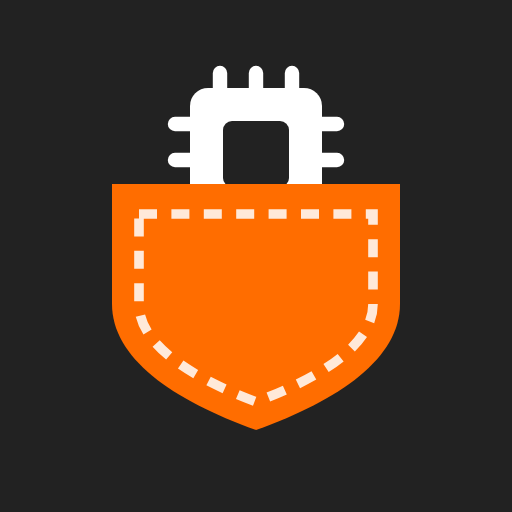
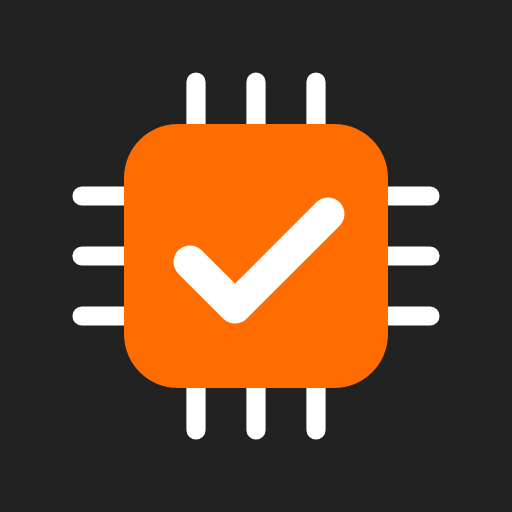
שם חדש: PC-LI, המחשב שמתאים לי. לוגו חדש (שבב עם וי) ואייקונים
Claude-Session: https://claude.ai/code/session_01FdpYwHwnTvmcWHvR7ke12a

diff --git a/index.html b/index.html
@@ -3,15 +3,15 @@
 <head>
 <meta charset="utf-8">
 <meta name="viewport" content="width=device-width, initial-scale=1, viewport-fit=cover">
-<title>KisPC: מחשב לכל כיס</title>
-<meta name="description" content="KisPC: בונים מחשב בקלות, משווים מחירים בין חנויות בישראל, ומבינים כל חלק בעברית פשוטה. חינם, בלי פרסומות ובלי עמלות.">
+<title>PC-LI: המחשב שמתאים לי</title>
+<meta name="description" content="PC-LI: בונים מחשב בקלות, משווים מחירים בין חנויות בישראל, ומבינים כל חלק בעברית פשוטה. חינם, בלי פרסומות ובלי עמלות.">
 <meta name="theme-color" content="#FF6D00">
 <link rel="manifest" href="manifest.webmanifest">
 <link rel="icon" href="icons/icon.svg" type="image/svg+xml">
 <link rel="apple-touch-icon" href="icons/icon-180.png">
 <meta name="apple-mobile-web-app-capable" content="yes">
-<meta name="apple-mobile-web-app-title" content="KisPC">
-<meta property="og:title" content="KisPC: מחשב לכל כיס">
+<meta name="apple-mobile-web-app-title" content="PC-LI">
+<meta property="og:title" content="PC-LI: המחשב שמתאים לי">
 <meta property="og:description" content="בונים מחשב, משווים מחירים בין חנויות, ומבינים כל חלק בעברית פשוטה. חינם, בלי פרסומות.">
 <meta property="og:image" content="icons/icon-512.png">
 <link rel="stylesheet" href="https://fonts.googleapis.com/css2?family=Assistant:wght@400;600;700;800&family=Amatic+SC:wght@700&display=swap">
@@ -226,8 +226,8 @@ textarea{resize:vertical;min-height:130px}
 <header class="top">
   <div class="wrap">
     <div style="display:flex;flex-direction:column">
-      <button type="button" class="brand" dir="ltr" data-tab="build" aria-label="KisPC, חזרה לבניית מחשב"><svg class="mark" viewBox="0 0 64 64" aria-hidden="true"><g fill="currentColor"><rect x="21" y="3" width="22" height="22" rx="3"/><path d="M26 0.5v2.5M32 0.5v2.5M38 0.5v2.5M18.5 9h2.5M18.5 15h2.5M43 9h2.5M43 15h2.5" stroke="currentColor" stroke-width="2.4" stroke-linecap="round"/></g><rect x="26.5" y="8.5" width="11" height="11" rx="1.5" fill="var(--paper)"/><path d="M8 19h48v20c0 9-10 16-24 21C18 55 8 48 8 39z" fill="var(--brand)"/><path d="M12.5 24h39v15c0 6.5-8 12-19.5 16.3C20.5 51 12.5 45.5 12.5 39z" fill="none" stroke="#fff" stroke-width="1.6" stroke-dasharray="3 2.4" opacity=".85"/></svg><span>Kis<b>PC</b></span></button>
-      <div class="tagline">מחשב לכל כיס</div>
+      <button type="button" class="brand" dir="ltr" data-tab="build" aria-label="PC-LI, חזרה לבניית מחשב"><svg class="mark" viewBox="0 0 64 64" aria-hidden="true"><path d="M22 3v7M32 3v7M42 3v7M22 54v7M32 54v7M42 54v7M3 22h7M3 32h7M3 42h7M54 22h7M54 32h7M54 42h7" stroke="currentColor" stroke-width="3.2" stroke-linecap="round"/><rect x="10" y="10" width="44" height="44" rx="9" fill="var(--brand)"/><path d="M21 33l7.5 7.5L44 25" fill="none" stroke="#fff" stroke-width="5.5" stroke-linecap="round" stroke-linejoin="round"/></svg><span>PC<b>-LI</b></span></button>
+      <div class="tagline">המחשב שמתאים לי</div>
     </div>
     <div class="row" style="flex-wrap:nowrap;gap:6px">
     <button type="button" class="theme-btn" id="open-glossary">מילון</button>
@@ -396,10 +396,10 @@ textarea{resize:vertical;min-height:130px}
   <section id="v-about" aria-labelledby="h-about" hidden>
     <button type="button" class="linkbtn back" data-tab="build">חזרה לבניית מחשב</button>
     <h1 id="h-about">מי אנחנו, ומה חשוב לדעת</h1>
-    <p class="lead">KisPC הוא אתר חינמי שעוזר לבנות מחשב בלי שיעבדו עליכם. אין לנו מה למכור לכם.</p>
+    <p class="lead">PC-LI הוא אתר חינמי שעוזר לבנות מחשב בלי שיעבדו עליכם. אין לנו מה למכור לכם.</p>
     <div class="about">
-      <h2>מי עומד מאחורי KisPC</h2>
-      <p>KisPC הוקם על ידי מור משה, כפרויקט אישי וחינמי. אין ל-KisPC קשר עסקי לאף חנות. אף חנות לא משלמת לנו, ואנחנו לא מקבלים עמלה על קנייה. סדר המחירים נקבע רק לפי המחיר.</p>
+      <h2>מי עומד מאחורי PC-LI</h2>
+      <p>PC-LI הוקם על ידי מור משה, כפרויקט אישי וחינמי. אין ל-PC-LI קשר עסקי לאף חנות. אף חנות לא משלמת לנו, ואנחנו לא מקבלים עמלה על קנייה. סדר המחירים נקבע רק לפי המחיר.</p>
       <h2>מאיפה המחירים</h2>
       <p>כמה פעמים ביום אנחנו בודקים את דף המוצר של כל חלק באתר החנות, ושומרים את המחיר שמופיע שם. ליד כל מחיר כתוב מתי הוא נבדק. כרגע יש מחירים מ-TMS, STO מחשבים, King Games, מחסני חשמל ופלונטר (פלונטר שולחים לנו קובץ מחירים רשמי). חנויות שלא מאפשרות לקרוא את האתר שלהן לא מופיעות, עד שיתנו אישור.</p>
       <p><b>המחיר הקובע הוא תמיד המחיר באתר החנות.</b> מחירים משתנים במהלך היום, ויכולות להיות טעויות. לפני שקונים, בדקו בדף המוצר את המחיר, את המלאי ואת האחריות.</p>
@@ -410,7 +410,7 @@ textarea{resize:vertical;min-height:130px}
       <h2>פרטיות</h2>
       <p>אין הרשמה ואין חשבונות. מה שבוחרים באתר נשמר רק בדפדפן שלכם. קישור שיתוף מכיל את המחשב שבחרתם, ולא שום פרט אישי. אנחנו לא משתמשים בעוגיות מעקב ולא אוספים נתוני גלישה. האתר מאוחסן ב-GitHub Pages והגופנים נטענים מ-Google Fonts, ולכן השירותים האלה עשויים לראות את כתובת ה-IP שלכם, כמו בכל אתר.</p>
       <h2>נגישות</h2>
-      <p>אנחנו רוצים שכל אחד יוכל להשתמש ב-KisPC. מה שעשינו: אפשר להשתמש בכל האתר עם מקלדת בלבד, הכפתורים מסומנים לקוראי מסך, יש מצב כהה וניגודיות גבוהה, והטקסט מתאים להגדלה בדפדפן. עוד לא עשינו בדיקת נגישות מלאה על ידי מומחה. נתקלתם בבעיה? כתבו לנו ונתקן.</p>
+      <p>אנחנו רוצים שכל אחד יוכל להשתמש ב-PC-LI. מה שעשינו: אפשר להשתמש בכל האתר עם מקלדת בלבד, הכפתורים מסומנים לקוראי מסך, יש מצב כהה וניגודיות גבוהה, והטקסט מתאים להגדלה בדפדפן. עוד לא עשינו בדיקת נגישות מלאה על ידי מומחה. נתקלתם בבעיה? כתבו לנו ונתקן.</p>
       <h2>יצירת קשר</h2>
       <p>טעות במחיר, חנות שרוצה להצטרף, בעיית נגישות או סתם רעיון: <a href="mailto:kispcoffice@gmail.com">kispcoffice@gmail.com</a></p>
     </div>
@@ -438,11 +438,11 @@ textarea{resize:vertical;min-height:130px}
 
   <section id="v-admin" aria-labelledby="h-admin" hidden>
     <h1 id="h-admin">מחירים</h1>
-    <p class="lead">רק אתה רואה את הלשונית הזו. מה שתשמור כאן יופיע לכל מי שפותח את KisPC, עם תאריך העדכון.</p>
+    <p class="lead">רק אתה רואה את הלשונית הזו. מה שתשמור כאן יופיע לכל מי שפותח את PC-LI, עם תאריך העדכון.</p>
     <div id="admin-list"></div>
   </section>
 
-  <p class="trust">KisPC חינמי לגמרי. בלי פרסומות, בלי עמלות מחנויות. ליד כל מחיר כתוב מתי הוא נבדק. המחיר הקובע הוא המחיר בחנות. <button type="button" class="linkbtn" id="open-about" style="min-height:0;padding:0">מי אנחנו, פרטיות ונגישות</button></p>
+  <p class="trust">PC-LI חינמי לגמרי. בלי פרסומות, בלי עמלות מחנויות. ליד כל מחיר כתוב מתי הוא נבדק. המחיר הקובע הוא המחיר בחנות. <button type="button" class="linkbtn" id="open-about" style="min-height:0;padding:0">מי אנחנו, פרטיות ונגישות</button></p>
 </main>
 
 <nav class="tabs" aria-label="ניווט">
@@ -1081,7 +1081,7 @@ function renderType(){
 function renderBuild(){ renderType(); renderUse(); renderParts(); renderChecks(); renderTotal(); renderAssembly(); document.getElementById("eilat").checked=S.eilat; document.getElementById("abroad").checked=S.abroad; }
 
 function buildText(){
-  var lines = ["המחשב שבניתי ב-KisPC:"];
+  var lines = ["המחשב שבניתי ב-PC-LI:"];
   activeKinds().forEach(function(kd){ var p=part(kd.k), c=chosen(kd.k); lines.push(kd.name+": "+(c? c.model+" ("+money(c.price)+" "+inStore(c.store.name)+")" : p.name)); });
   var t=document.getElementById("total").textContent; if(t!=="—") lines.push("סה\"כ: "+t+(S.eilat?" (מחירי אילת)":""));
   var a = ASSEMBLY.filter(function(x){return x.id===S.asm;})[0]; if(a) lines.push("הרכבה: "+a.name);
@@ -1124,7 +1124,7 @@ document.getElementById("share").addEventListener("click", async function(){
   var msg=document.getElementById("copy-msg");
   if(!db){
     var hl = location.origin + location.pathname + shareHash();
-    if(navigator.share){ try{ await navigator.share({title:"המחשב שלי ב-KisPC", text:"תראו את המחשב שבניתי:", url:hl}); msg.textContent=""; return; }catch(err){ if(err && err.name==="AbortError") return; } }
+    if(navigator.share){ try{ await navigator.share({title:"המחשב שלי ב-PC-LI", text:"תראו את המחשב שבניתי:", url:hl}); msg.textContent=""; return; }catch(err){ if(err && err.name==="AbortError") return; } }
     copyText(hl, msg, "הקישור הועתק. אפשר להדביק בוואטסאפ.");
     return;
   }
@@ -1134,7 +1134,7 @@ document.getElementById("share").addEventListener("click", async function(){
     var ref = db.doc("shared/"+sid);
     await ref.set({color:S.color, build:S.build, picks:S.picks, mode:S.mode, use:S.use, level:S.level, eilat:S.eilat, periph:S.periph, asm:S.asm, createdAt:new Date().toISOString()});
     var link = ART_URL+"#b"+sid;
-    copyText(link, msg, "הקישור הועתק: "+link+" (מי שמקבל צריך גישה ל-KisPC)");
+    copyText(link, msg, "הקישור הועתק: "+link+" (מי שמקבל צריך גישה ל-PC-LI)");
   }catch(err){ msg.textContent="לא הצלחתי ליצור קישור. אפשר להעתיק כטקסט."; }
 });
 document.getElementById("alert-save").addEventListener("click", async function(){
@@ -1187,7 +1187,7 @@ function catalogBrief(){
   return Object.keys(CAT).map(function(k){ return k+": "+CAT[k].map(function(p){ var o=isFree(k,p.id)?[]:offers(k,p.id); return p.name+(o.length?" (הזול: "+o[0].model+" "+money(o[0].price)+" "+inStore(o[0].store.name)+")":""); }).join("; "); }).join("\n");
 }
 function buildBrief(){ return activeKinds().map(function(kd){ var c=chosen(kd.k); return kd.name+": "+(c? c.model+" "+money(c.price) : part(kd.k).name); }).join("\n"); }
-var RULES = "אתה היועץ של KisPC, אתר חינמי בעברית שעוזר לאנשים בלי ידע טכני לקנות מחשב בלי שיעבדו עליהם. כתוב בעברית פשוטה, קצר, בלי מונחים מיותרים, כמו חבר שמבין במחשבים. כשאתה משתמש במונח טכני, הסבר אותו במילים פשוטות. אל תמציא מחירים: השתמש רק במחירים שמופיעים במידע למטה, ואם אין מחיר, אמור שאין לך מחיר עדכני. אל תשתמש בכוכביות, בכותרות או בעיצוב Markdown; טקסט רגיל בלבד, שורה לכל נקודה.";
+var RULES = "אתה היועץ של PC-LI, אתר חינמי בעברית שעוזר לאנשים בלי ידע טכני לקנות מחשב בלי שיעבדו עליהם. כתוב בעברית פשוטה, קצר, בלי מונחים מיותרים, כמו חבר שמבין במחשבים. כשאתה משתמש במונח טכני, הסבר אותו במילים פשוטות. אל תמציא מחירים: השתמש רק במחירים שמופיעים במידע למטה, ואם אין מחיר, אמור שאין לך מחיר עדכני. אל תשתמש בכוכביות, בכותרות או בעיצוב Markdown; טקסט רגיל בלבד, שורה לכל נקודה.";
 function hideAI(){ ["check-off","ask-off"].forEach(function(id){ document.getElementById(id).hidden=false; }); document.getElementById("ask-form").hidden=true; document.getElementById("img-row").hidden=true; document.getElementById("img-tip").hidden=true; }
 var offerImg = null;
 function onOfferImage(e){

diff --git a/src/app.html b/src/app.html
@@ -1,4 +1,4 @@
-<title>KisPC</title>
+<title>PC-LI</title>
 <meta name="claude:viewport-fit-sides" content="cover">
 <link rel="stylesheet" href="https://fonts.googleapis.com/css2?family=Assistant:wght@400;600;700;800&family=Amatic+SC:wght@700&display=swap">
 <style>
@@ -209,8 +209,8 @@ textarea{resize:vertical;min-height:130px}
 <header class="top">
   <div class="wrap">
     <div style="display:flex;flex-direction:column">
-      <button type="button" class="brand" dir="ltr" data-tab="build" aria-label="KisPC, חזרה לבניית מחשב"><svg class="mark" viewBox="0 0 64 64" aria-hidden="true"><g fill="currentColor"><rect x="21" y="3" width="22" height="22" rx="3"/><path d="M26 0.5v2.5M32 0.5v2.5M38 0.5v2.5M18.5 9h2.5M18.5 15h2.5M43 9h2.5M43 15h2.5" stroke="currentColor" stroke-width="2.4" stroke-linecap="round"/></g><rect x="26.5" y="8.5" width="11" height="11" rx="1.5" fill="var(--paper)"/><path d="M8 19h48v20c0 9-10 16-24 21C18 55 8 48 8 39z" fill="var(--brand)"/><path d="M12.5 24h39v15c0 6.5-8 12-19.5 16.3C20.5 51 12.5 45.5 12.5 39z" fill="none" stroke="#fff" stroke-width="1.6" stroke-dasharray="3 2.4" opacity=".85"/></svg><span>Kis<b>PC</b></span></button>
-      <div class="tagline">מחשב לכל כיס</div>
+      <button type="button" class="brand" dir="ltr" data-tab="build" aria-label="PC-LI, חזרה לבניית מחשב"><svg class="mark" viewBox="0 0 64 64" aria-hidden="true"><path d="M22 3v7M32 3v7M42 3v7M22 54v7M32 54v7M42 54v7M3 22h7M3 32h7M3 42h7M54 22h7M54 32h7M54 42h7" stroke="currentColor" stroke-width="3.2" stroke-linecap="round"/><rect x="10" y="10" width="44" height="44" rx="9" fill="var(--brand)"/><path d="M21 33l7.5 7.5L44 25" fill="none" stroke="#fff" stroke-width="5.5" stroke-linecap="round" stroke-linejoin="round"/></svg><span>PC<b>-LI</b></span></button>
+      <div class="tagline">המחשב שמתאים לי</div>
     </div>
     <div class="row" style="flex-wrap:nowrap;gap:6px">
     <button type="button" class="theme-btn" id="open-glossary">מילון</button>
@@ -379,10 +379,10 @@ textarea{resize:vertical;min-height:130px}
   <section id="v-about" aria-labelledby="h-about" hidden>
     <button type="button" class="linkbtn back" data-tab="build">חזרה לבניית מחשב</button>
     <h1 id="h-about">מי אנחנו, ומה חשוב לדעת</h1>
-    <p class="lead">KisPC הוא אתר חינמי שעוזר לבנות מחשב בלי שיעבדו עליכם. אין לנו מה למכור לכם.</p>
+    <p class="lead">PC-LI הוא אתר חינמי שעוזר לבנות מחשב בלי שיעבדו עליכם. אין לנו מה למכור לכם.</p>
     <div class="about">
-      <h2>מי עומד מאחורי KisPC</h2>
-      <p>KisPC הוקם על ידי מור משה, כפרויקט אישי וחינמי. אין ל-KisPC קשר עסקי לאף חנות. אף חנות לא משלמת לנו, ואנחנו לא מקבלים עמלה על קנייה. סדר המחירים נקבע רק לפי המחיר.</p>
+      <h2>מי עומד מאחורי PC-LI</h2>
+      <p>PC-LI הוקם על ידי מור משה, כפרויקט אישי וחינמי. אין ל-PC-LI קשר עסקי לאף חנות. אף חנות לא משלמת לנו, ואנחנו לא מקבלים עמלה על קנייה. סדר המחירים נקבע רק לפי המחיר.</p>
       <h2>מאיפה המחירים</h2>
       <p>כמה פעמים ביום אנחנו בודקים את דף המוצר של כל חלק באתר החנות, ושומרים את המחיר שמופיע שם. ליד כל מחיר כתוב מתי הוא נבדק. כרגע יש מחירים מ-TMS, STO מחשבים, King Games, מחסני חשמל ופלונטר (פלונטר שולחים לנו קובץ מחירים רשמי). חנויות שלא מאפשרות לקרוא את האתר שלהן לא מופיעות, עד שיתנו אישור.</p>
       <p><b>המחיר הקובע הוא תמיד המחיר באתר החנות.</b> מחירים משתנים במהלך היום, ויכולות להיות טעויות. לפני שקונים, בדקו בדף המוצר את המחיר, את המלאי ואת האחריות.</p>
@@ -393,7 +393,7 @@ textarea{resize:vertical;min-height:130px}
       <h2>פרטיות</h2>
       <p>אין הרשמה ואין חשבונות. מה שבוחרים באתר נשמר רק בדפדפן שלכם. קישור שיתוף מכיל את המחשב שבחרתם, ולא שום פרט אישי. אנחנו לא משתמשים בעוגיות מעקב ולא אוספים נתוני גלישה. האתר מאוחסן ב-GitHub Pages והגופנים נטענים מ-Google Fonts, ולכן השירותים האלה עשויים לראות את כתובת ה-IP שלכם, כמו בכל אתר.</p>
       <h2>נגישות</h2>
-      <p>אנחנו רוצים שכל אחד יוכל להשתמש ב-KisPC. מה שעשינו: אפשר להשתמש בכל האתר עם מקלדת בלבד, הכפתורים מסומנים לקוראי מסך, יש מצב כהה וניגודיות גבוהה, והטקסט מתאים להגדלה בדפדפן. עוד לא עשינו בדיקת נגישות מלאה על ידי מומחה. נתקלתם בבעיה? כתבו לנו ונתקן.</p>
+      <p>אנחנו רוצים שכל אחד יוכל להשתמש ב-PC-LI. מה שעשינו: אפשר להשתמש בכל האתר עם מקלדת בלבד, הכפתורים מסומנים לקוראי מסך, יש מצב כהה וניגודיות גבוהה, והטקסט מתאים להגדלה בדפדפן. עוד לא עשינו בדיקת נגישות מלאה על ידי מומחה. נתקלתם בבעיה? כתבו לנו ונתקן.</p>
       <h2>יצירת קשר</h2>
       <p>טעות במחיר, חנות שרוצה להצטרף, בעיית נגישות או סתם רעיון: <a href="mailto:kispcoffice@gmail.com">kispcoffice@gmail.com</a></p>
     </div>
@@ -421,11 +421,11 @@ textarea{resize:vertical;min-height:130px}
 
   <section id="v-admin" aria-labelledby="h-admin" hidden>
     <h1 id="h-admin">מחירים</h1>
-    <p class="lead">רק אתה רואה את הלשונית הזו. מה שתשמור כאן יופיע לכל מי שפותח את KisPC, עם תאריך העדכון.</p>
+    <p class="lead">רק אתה רואה את הלשונית הזו. מה שתשמור כאן יופיע לכל מי שפותח את PC-LI, עם תאריך העדכון.</p>
     <div id="admin-list"></div>
   </section>
 
-  <p class="trust">KisPC חינמי לגמרי. בלי פרסומות, בלי עמלות מחנויות. ליד כל מחיר כתוב מתי הוא נבדק. המחיר הקובע הוא המחיר בחנות. <button type="button" class="linkbtn" id="open-about" style="min-height:0;padding:0">מי אנחנו, פרטיות ונגישות</button></p>
+  <p class="trust">PC-LI חינמי לגמרי. בלי פרסומות, בלי עמלות מחנויות. ליד כל מחיר כתוב מתי הוא נבדק. המחיר הקובע הוא המחיר בחנות. <button type="button" class="linkbtn" id="open-about" style="min-height:0;padding:0">מי אנחנו, פרטיות ונגישות</button></p>
 </main>
 
 <nav class="tabs" aria-label="ניווט">
@@ -1064,7 +1064,7 @@ function renderType(){
 function renderBuild(){ renderType(); renderUse(); renderParts(); renderChecks(); renderTotal(); renderAssembly(); document.getElementById("eilat").checked=S.eilat; document.getElementById("abroad").checked=S.abroad; }
 
 function buildText(){
-  var lines = ["המחשב שבניתי ב-KisPC:"];
+  var lines = ["המחשב שבניתי ב-PC-LI:"];
   activeKinds().forEach(function(kd){ var p=part(kd.k), c=chosen(kd.k); lines.push(kd.name+": "+(c? c.model+" ("+money(c.price)+" "+inStore(c.store.name)+")" : p.name)); });
   var t=document.getElementById("total").textContent; if(t!=="—") lines.push("סה\"כ: "+t+(S.eilat?" (מחירי אילת)":""));
   var a = ASSEMBLY.filter(function(x){return x.id===S.asm;})[0]; if(a) lines.push("הרכבה: "+a.name);
@@ -1107,7 +1107,7 @@ document.getElementById("share").addEventListener("click", async function(){
   var msg=document.getElementById("copy-msg");
   if(!db){
     var hl = location.origin + location.pathname + shareHash();
-    if(navigator.share){ try{ await navigator.share({title:"המחשב שלי ב-KisPC", text:"תראו את המחשב שבניתי:", url:hl}); msg.textContent=""; return; }catch(err){ if(err && err.name==="AbortError") return; } }
+    if(navigator.share){ try{ await navigator.share({title:"המחשב שלי ב-PC-LI", text:"תראו את המחשב שבניתי:", url:hl}); msg.textContent=""; return; }catch(err){ if(err && err.name==="AbortError") return; } }
     copyText(hl, msg, "הקישור הועתק. אפשר להדביק בוואטסאפ.");
     return;
   }
@@ -1117,7 +1117,7 @@ document.getElementById("share").addEventListener("click", async function(){
     var ref = db.doc("shared/"+sid);
     await ref.set({color:S.color, build:S.build, picks:S.picks, mode:S.mode, use:S.use, level:S.level, eilat:S.eilat, periph:S.periph, asm:S.asm, createdAt:new Date().toISOString()});
     var link = ART_URL+"#b"+sid;
-    copyText(link, msg, "הקישור הועתק: "+link+" (מי שמקבל צריך גישה ל-KisPC)");
+    copyText(link, msg, "הקישור הועתק: "+link+" (מי שמקבל צריך גישה ל-PC-LI)");
   }catch(err){ msg.textContent="לא הצלחתי ליצור קישור. אפשר להעתיק כטקסט."; }
 });
 document.getElementById("alert-save").addEventListener("click", async function(){
@@ -1170,7 +1170,7 @@ function catalogBrief(){
   return Object.keys(CAT).map(function(k){ return k+": "+CAT[k].map(function(p){ var o=isFree(k,p.id)?[]:offers(k,p.id); return p.name+(o.length?" (הזול: "+o[0].model+" "+money(o[0].price)+" "+inStore(o[0].store.name)+")":""); }).join("; "); }).join("\n");
 }
 function buildBrief(){ return activeKinds().map(function(kd){ var c=chosen(kd.k); return kd.name+": "+(c? c.model+" "+money(c.price) : part(kd.k).name); }).join("\n"); }
-var RULES = "אתה היועץ של KisPC, אתר חינמי בעברית שעוזר לאנשים בלי ידע טכני לקנות מחשב בלי שיעבדו עליהם. כתוב בעברית פשוטה, קצר, בלי מונחים מיותרים, כמו חבר שמבין במחשבים. כשאתה משתמש במונח טכני, הסבר אותו במילים פשוטות. אל תמציא מחירים: השתמש רק במחירים שמופיעים במידע למטה, ואם אין מחיר, אמור שאין לך מחיר עדכני. אל תשתמש בכוכביות, בכותרות או בעיצוב Markdown; טקסט רגיל בלבד, שורה לכל נקודה.";
+var RULES = "אתה היועץ של PC-LI, אתר חינמי בעברית שעוזר לאנשים בלי ידע טכני לקנות מחשב בלי שיעבדו עליהם. כתוב בעברית פשוטה, קצר, בלי מונחים מיותרים, כמו חבר שמבין במחשבים. כשאתה משתמש במונח טכני, הסבר אותו במילים פשוטות. אל תמציא מחירים: השתמש רק במחירים שמופיעים במידע למטה, ואם אין מחיר, אמור שאין לך מחיר עדכני. אל תשתמש בכוכביות, בכותרות או בעיצוב Markdown; טקסט רגיל בלבד, שורה לכל נקודה.";
 function hideAI(){ ["check-off","ask-off"].forEach(function(id){ document.getElementById(id).hidden=false; }); document.getElementById("ask-form").hidden=true; document.getElementById("img-row").hidden=true; document.getElementById("img-tip").hidden=true; }
 var offerImg = null;
 function onOfferImage(e){

diff --git a/tools/build.py b/tools/build.py
@@ -4,22 +4,22 @@ root=os.path.dirname(os.path.dirname(os.path.abspath(__file__)))
 os.chdir(root)
 src=open('src/app.html',encoding='utf-8').read()
 src=src.replace('<meta name="claude:viewport-fit-sides" content="cover">\n','')
-title_line='<title>KisPC</title>\n'
+title_line='<title>PC-LI</title>\n'
 assert src.startswith(title_line); body=src[len(title_line):]
 head='''<!doctype html>
 <html lang="he" dir="rtl">
 <head>
 <meta charset="utf-8">
 <meta name="viewport" content="width=device-width, initial-scale=1, viewport-fit=cover">
-<title>KisPC: מחשב לכל כיס</title>
-<meta name="description" content="KisPC: בונים מחשב בקלות, משווים מחירים בין חנויות בישראל, ומבינים כל חלק בעברית פשוטה. חינם, בלי פרסומות ובלי עמלות.">
+<title>PC-LI: המחשב שמתאים לי</title>
+<meta name="description" content="PC-LI: בונים מחשב בקלות, משווים מחירים בין חנויות בישראל, ומבינים כל חלק בעברית פשוטה. חינם, בלי פרסומות ובלי עמלות.">
 <meta name="theme-color" content="#FF6D00">
 <link rel="manifest" href="manifest.webmanifest">
 <link rel="icon" href="icons/icon.svg" type="image/svg+xml">
 <link rel="apple-touch-icon" href="icons/icon-180.png">
 <meta name="apple-mobile-web-app-capable" content="yes">
-<meta name="apple-mobile-web-app-title" content="KisPC">
-<meta property="og:title" content="KisPC: מחשב לכל כיס">
+<meta name="apple-mobile-web-app-title" content="PC-LI">
+<meta property="og:title" content="PC-LI: המחשב שמתאים לי">
 <meta property="og:description" content="בונים מחשב, משווים מחירים בין חנויות, ומבינים כל חלק בעברית פשוטה. חינם, בלי פרסומות.">
 <meta property="og:image" content="icons/icon-512.png">
 '''

diff --git a/README.md b/README.md
@@ -1,6 +1,6 @@
-# KisPC
+# PC-LI
 
-מחשב לכל כיס. אפליקציה חינמית לגמרי: בלי פרסומות, בלי עמלות מחנויות.
+המחשב שמתאים לי. אפליקציה חינמית לגמרי: בלי פרסומות, בלי עמלות מחנויות.
 
 - בוחרים בשביל מה המחשב וכמה להשקיע, ומקבלים הרכבה שבדוק שהכל בה מתאים.
 - מחירים מכמה חנויות בישראל, מתעדכנים כל בוקר מדפי המוצר.
